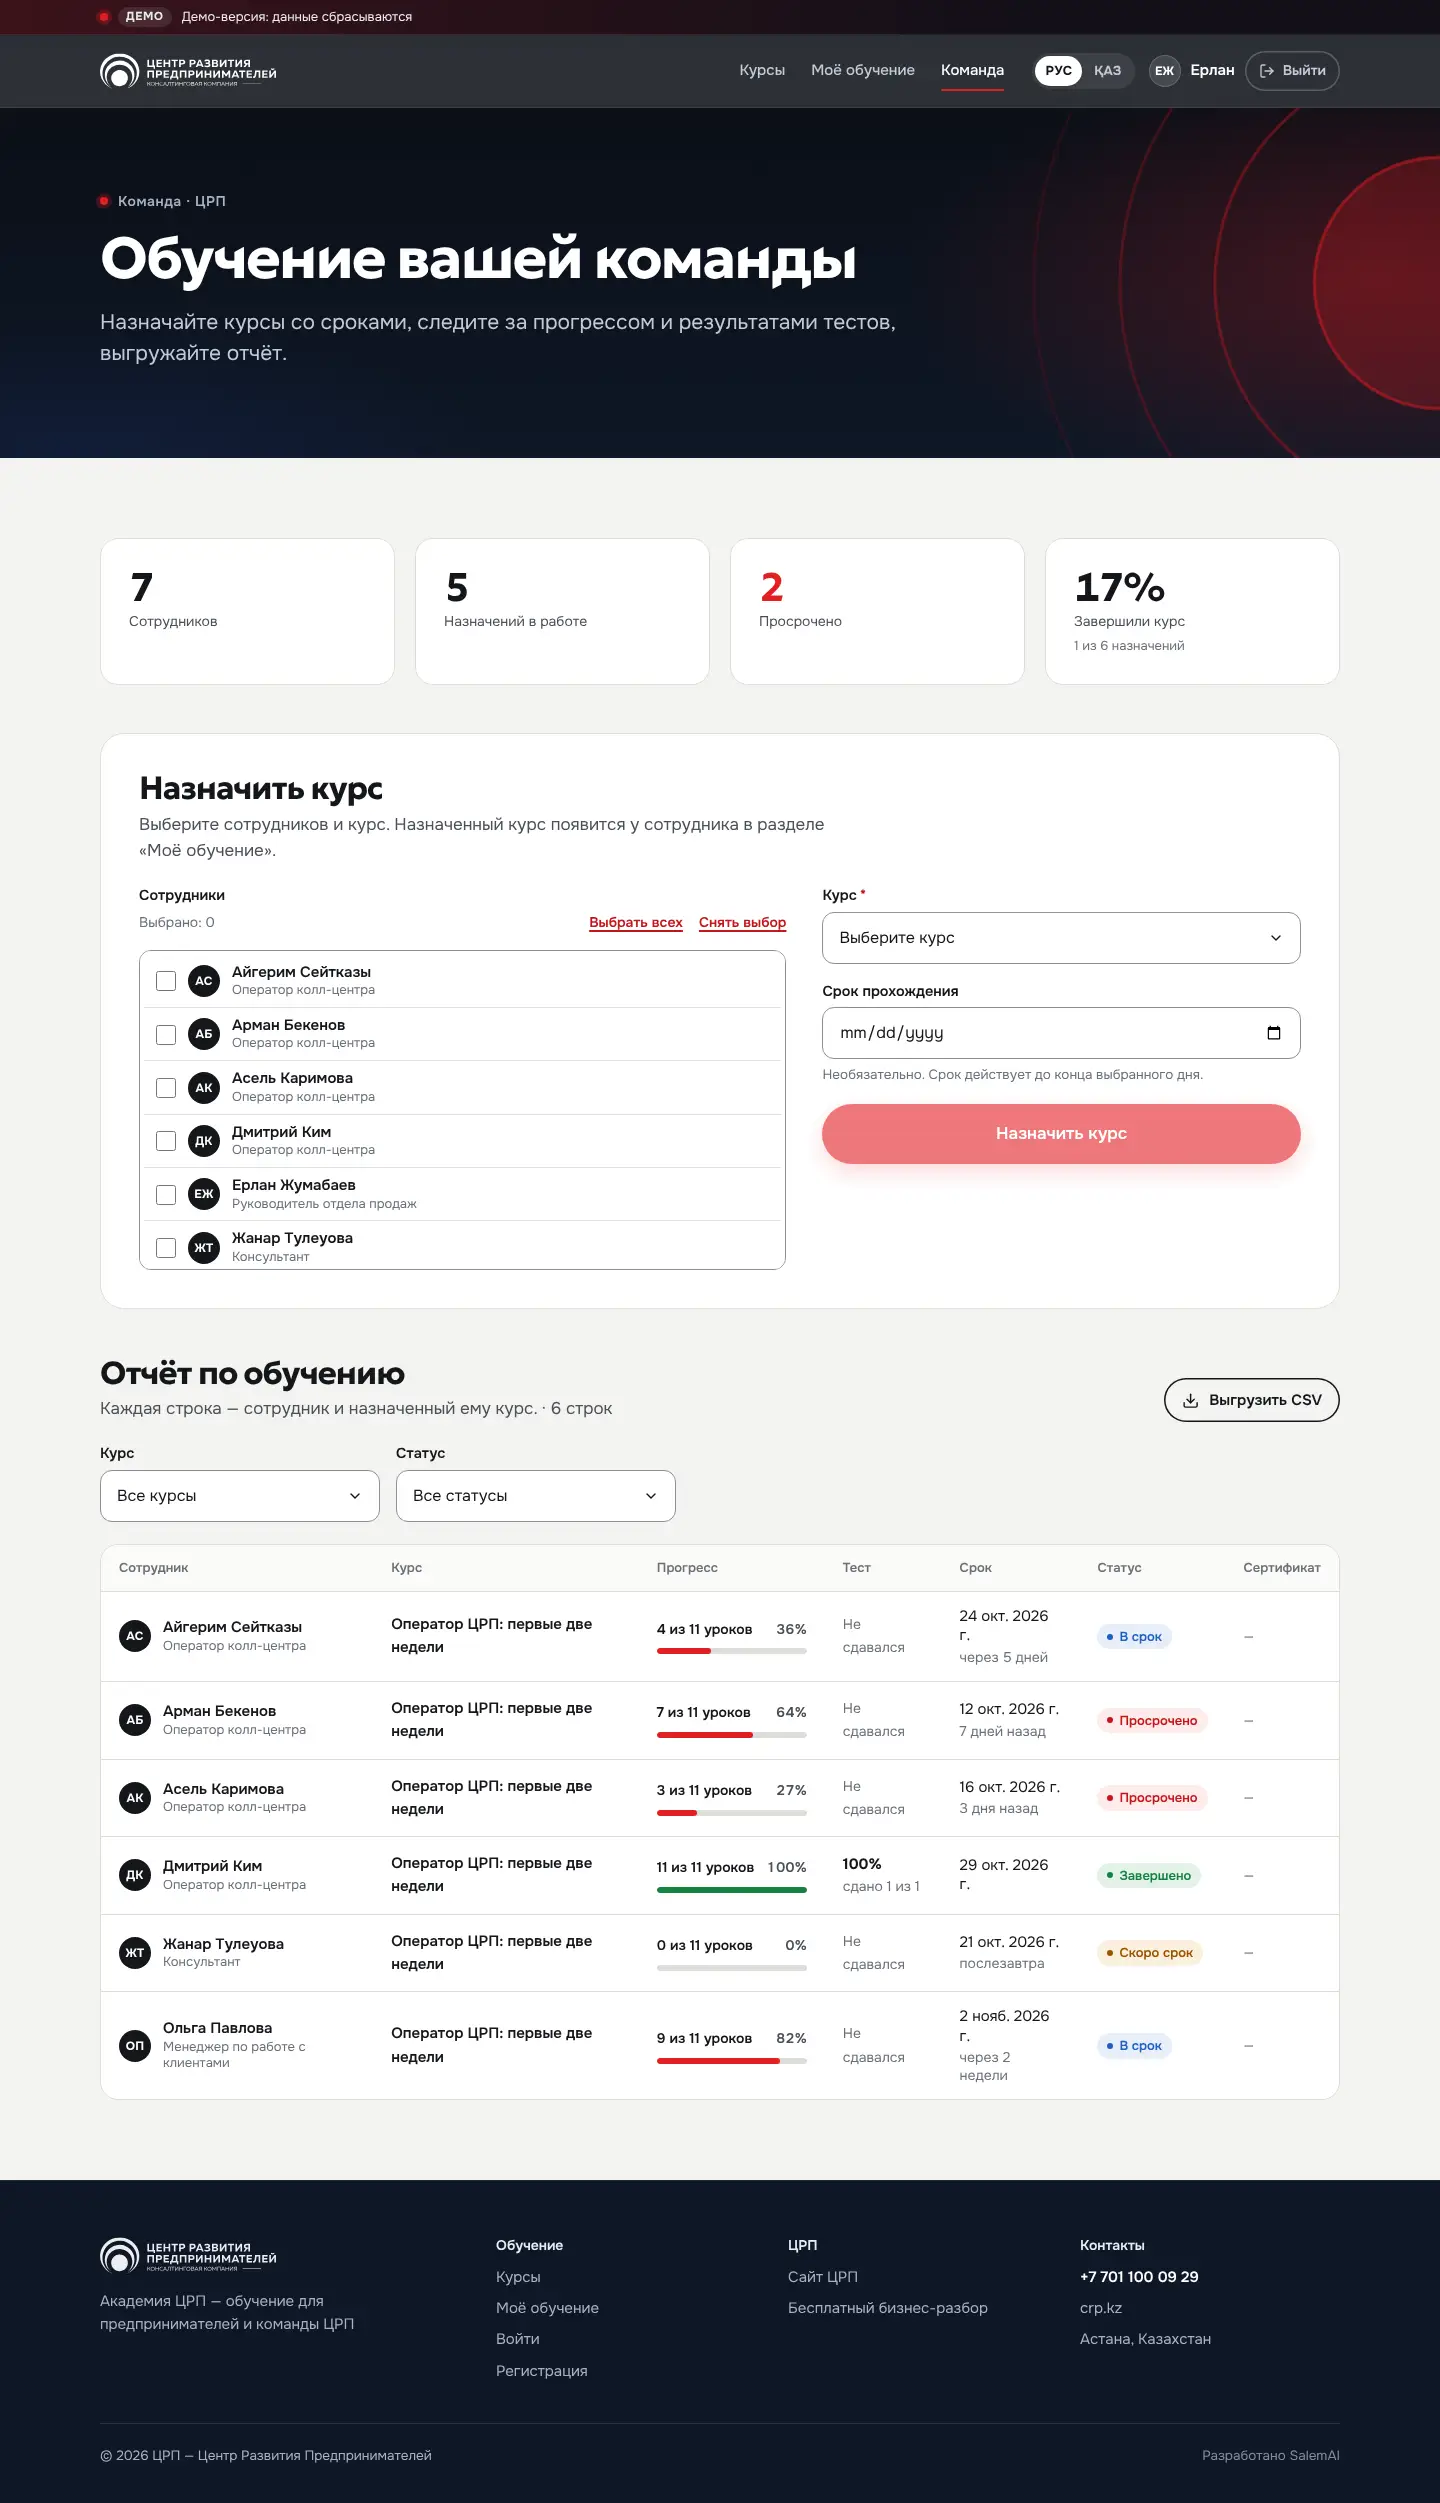
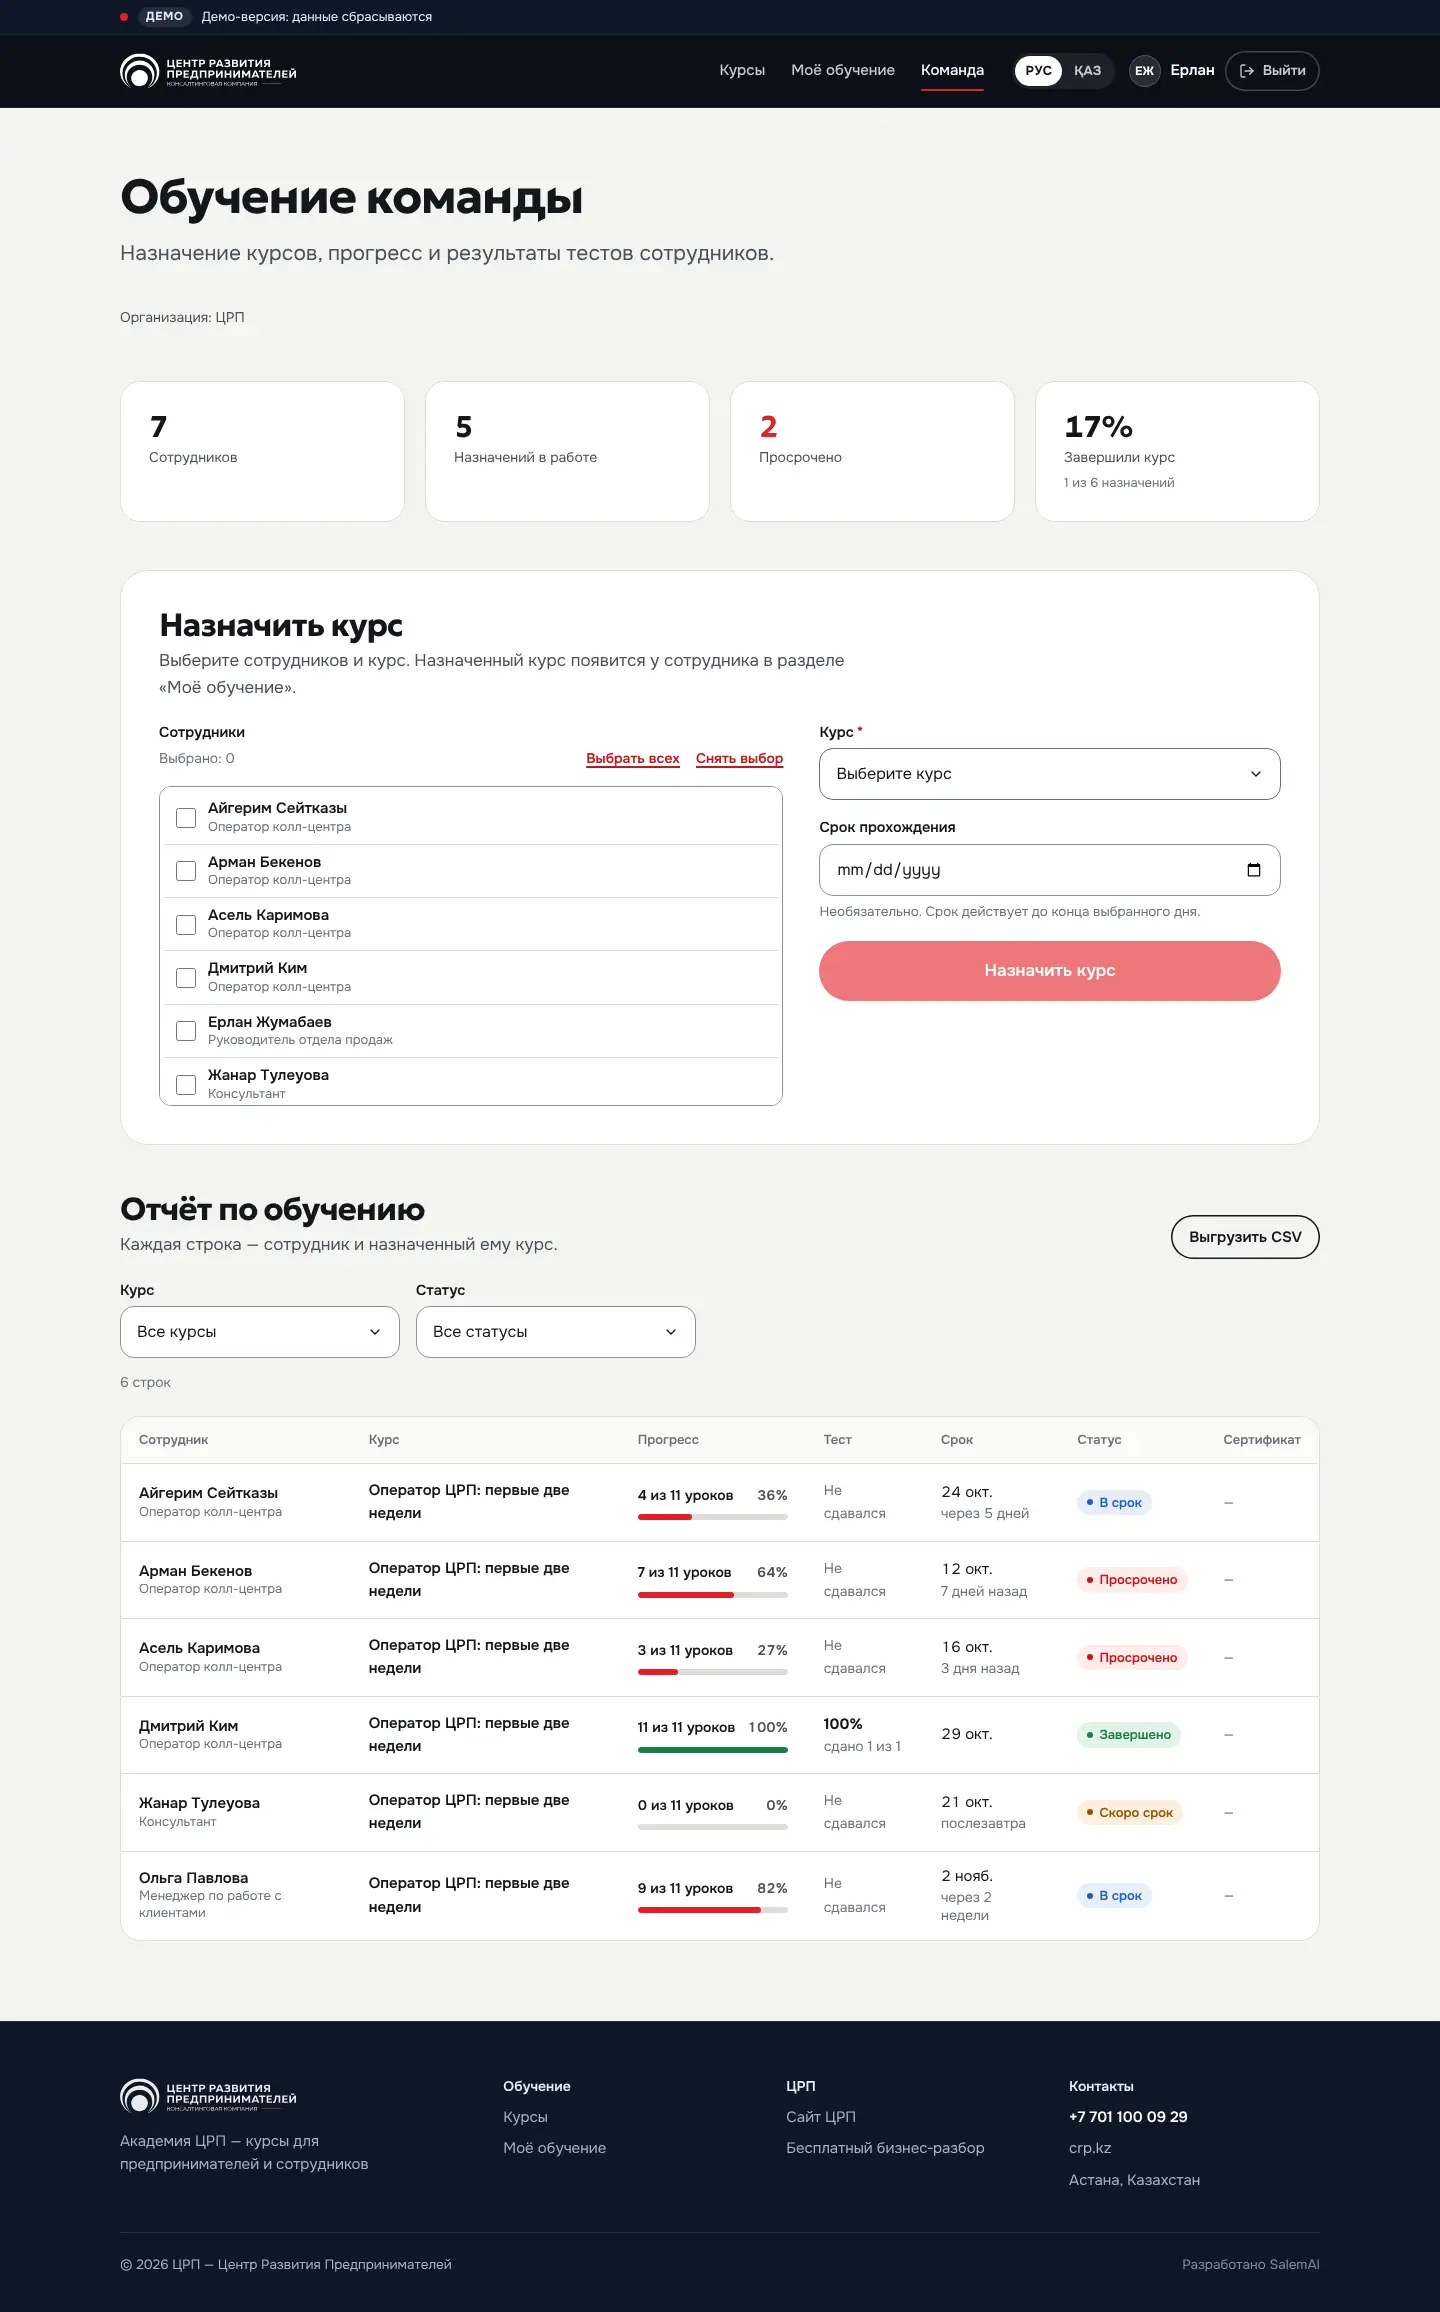
docs(handoff): чистка от ИИ-шума — передача работы и новые скриншоты (#26)
Записка для следующей сессии: что сделано по D-023, что ждёт владельца
(выкладка демо, название платформы, фото), где правила. Скриншоты
docs/screens пересняты с новой версии интерфейса.

Claude-Session: https://claude.ai/code/session_01Q9fHFg8kgmi3jDMeaSdh96

diff --git a/docs/handoffs/2026-10-19-lms-deslop.md b/docs/handoffs/2026-10-19-lms-deslop.md
@@ -1,0 +1,47 @@
+# Чистка интерфейса от ИИ-шума — передача работы
+Дата: 2026-10-19 · Поток: lms · Ветка: `claude/amazing-pascal-agse3o` · Issue: #26
+
+## Сделано
+- **Правила.** Владелец убрал с сайта ЦРП приёмы, по которым интерфейс
+  выглядит сгенерированным (сайт v3), и попросил то же для платформы.
+  - Правила — в `docs/brand/BRAND.md`, раздел «Без ИИ-шума», решение D-023.
+  - Эталон `docs/brand/reference/` обновлён до v3. Лица и данные клиентов на
+    скриншотах размыты.
+- **Фундамент:**
+  - убран шрифт Caveat;
+  - шапка сайта сплошная, кнопки без цветной тени, карточки плоские;
+  - удалены Eyebrow и Hand, вместо LinkArrow — TextLink без стрелки;
+  - PageHeader без колец и свечения, кольца статичные и только на главной;
+  - пустые состояния без иконок в кругах.
+- **Экраны:**
+  - главная без ракеты, плавающих плашек и полосы цифр; шаги 01–04 —
+    контурные цифры, как на сайте;
+  - обложки курсов — панель тона с фактом вместо букв;
+  - кабинет, каталог, покупка, команда и админка начинаются с простого
+    заголовка страницы;
+  - тексты ru и kz — названия вместо лозунгов, без повторов.
+- **Проверки.** После чистки — три раунда визуальной приёмки: критики на Opus
+  по скриншотам «до/после», поиск по коду и текстам, ревью кода. Все находки
+  исправлены или перечислены ниже. Тесты `brand-no-ai-slop`, `learn-no-slop`,
+  `admin-no-ai-slop` не пускают запрещённые приёмы обратно.
+- **Тексты** в истории идут отдельными коммитами до и после кода (AGENTS.md,
+  п. 4 о локалях).
+
+## Не доделано
+- Выкладка демо:
+  - Vercel не даёт создать проект (403);
+  - на Netlify создан сайт `crp-academy-demo` с `DEMO_MODE=1`, но выкладку
+    заблокировала проверка прав — нужно разрешение владельца.
+- Казахские тексты — на проверку носителю (#13).
+- Поле даты в «Команде» — нативное, его формат зависит от языка браузера.
+
+## Ждёт решения владельца
+- Название платформы: «Академия ЦРП» пока не утверждено (BRAND.md).
+- Настоящие фото ЦРП для первого экрана главной: на людях на фото — ПДн,
+  нужно согласие.
+
+## Подсказка для следующей сессии
+Продолжи платформу обучения ЦРП в `salemaikz/crp-kz`, ветка
+`claude/amazing-pascal-agse3o`. Прочитай `AGENTS.md`, `docs/brand/BRAND.md`
+(раздел «Без ИИ-шума»), D-023 и этот handoff. Перед правками интерфейса
+сверяйся с эталоном `docs/brand/reference/`.

diff --git a/docs/handoffs/2026-10-19-lms-mvp-build.md b/docs/handoffs/2026-10-19-lms-mvp-build.md
@@ -3,7 +3,7 @@
 
 ## Сделано
 - **Стиль.** Взят визуальный язык редизайна сайта ЦРП: доска, графит, красный
-  маркер, ночные секции, Geologica / Onest / Caveat (D-014). Эталон лежит в
+  маркер, ночные секции, Geologica / Onest (D-014; Caveat убран в D-023). Эталон лежит в
   `docs/brand/reference/`.
 - **Фундамент:**
   - слой БД на двух драйверах: Postgres и PGlite для демо (D-015);
